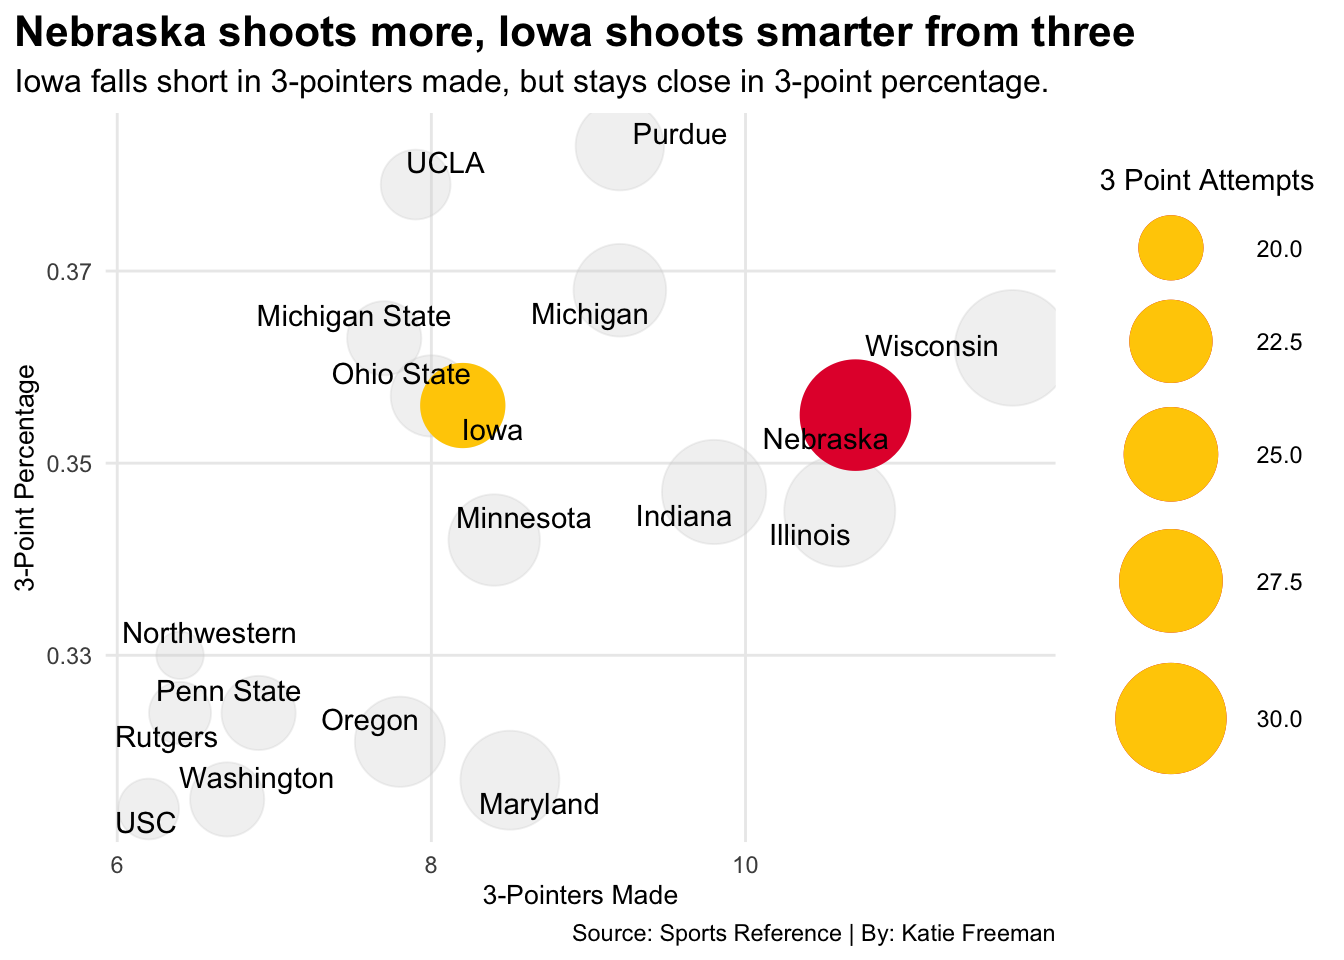
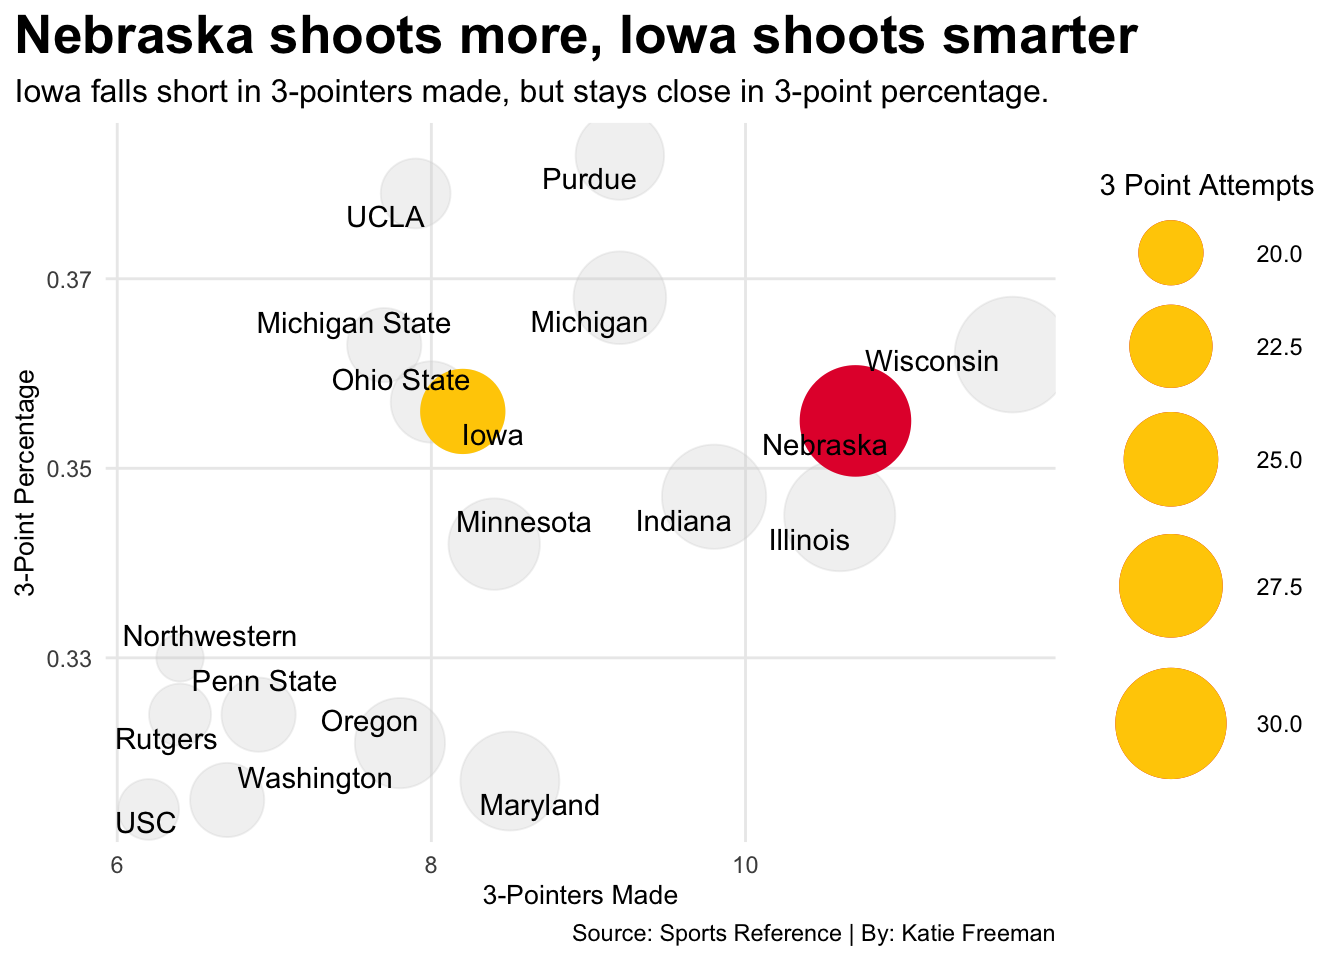
title edits

diff --git a/posts/nebraska-iowa-mens-basketball/index.html b/posts/nebraska-iowa-mens-basketball/index.html
@@ -520,13 +520,13 @@ pre > code.sourceCode > span > a:first-child::before { text-decoration: underlin
 <span id="cb5-22"><a href="#cb5-22" aria-hidden="true" tabindex="-1"></a><span class="fu">labs</span>(</span>
 <span id="cb5-23"><a href="#cb5-23" aria-hidden="true" tabindex="-1"></a>    <span class="at">x=</span><span class="st">"3-Pointers Made"</span>, </span>
 <span id="cb5-24"><a href="#cb5-24" aria-hidden="true" tabindex="-1"></a>    <span class="at">y=</span><span class="st">"3-Point Percentage"</span>, </span>
-<span id="cb5-25"><a href="#cb5-25" aria-hidden="true" tabindex="-1"></a>    <span class="at">title=</span><span class="st">"Nebraska shoots more, Iowa shoots smarter from three"</span>, </span>
+<span id="cb5-25"><a href="#cb5-25" aria-hidden="true" tabindex="-1"></a>    <span class="at">title=</span><span class="st">"Nebraska shoots more, Iowa shoots smarter"</span>, </span>
 <span id="cb5-26"><a href="#cb5-26" aria-hidden="true" tabindex="-1"></a>    <span class="at">subtitle=</span><span class="st">"Iowa falls short in 3-pointers made, but stays close in 3-point percentage."</span>, </span>
 <span id="cb5-27"><a href="#cb5-27" aria-hidden="true" tabindex="-1"></a>    <span class="at">caption=</span><span class="st">"Source: Sports Reference | By: Katie Freeman"</span></span>
 <span id="cb5-28"><a href="#cb5-28" aria-hidden="true" tabindex="-1"></a>    ) <span class="sc">+</span></span>
 <span id="cb5-29"><a href="#cb5-29" aria-hidden="true" tabindex="-1"></a>  <span class="fu">theme_minimal</span>() <span class="sc">+</span> </span>
 <span id="cb5-30"><a href="#cb5-30" aria-hidden="true" tabindex="-1"></a>  <span class="fu">theme</span>(</span>
-<span id="cb5-31"><a href="#cb5-31" aria-hidden="true" tabindex="-1"></a>    <span class="at">plot.title =</span> <span class="fu">element_text</span>(<span class="at">size =</span> <span class="dv">16</span>, <span class="at">face =</span> <span class="st">"bold"</span>),</span>
+<span id="cb5-31"><a href="#cb5-31" aria-hidden="true" tabindex="-1"></a>    <span class="at">plot.title =</span> <span class="fu">element_text</span>(<span class="at">size =</span> <span class="dv">20</span>, <span class="at">face =</span> <span class="st">"bold"</span>),</span>
 <span id="cb5-32"><a href="#cb5-32" aria-hidden="true" tabindex="-1"></a>    <span class="at">axis.title =</span> <span class="fu">element_text</span>(<span class="at">size =</span> <span class="dv">10</span>), </span>
 <span id="cb5-33"><a href="#cb5-33" aria-hidden="true" tabindex="-1"></a>    <span class="at">plot.subtitle =</span> <span class="fu">element_text</span>(<span class="at">size=</span><span class="dv">12</span>), </span>
 <span id="cb5-34"><a href="#cb5-34" aria-hidden="true" tabindex="-1"></a>    <span class="at">panel.grid.minor =</span> <span class="fu">element_blank</span>(),</span>

diff --git a/index.html b/index.html
@@ -373,7 +373,7 @@ window.Quarto = {
 
 <div class="quarto-listing quarto-listing-container-default" id="listing-listing">
 <div class="list quarto-listing-default">
-<div class="quarto-post image-right" data-index="0" data-categories="YmlndGVuJTJDYmFza2V0YmFsbCUyQ25lYnJhc2thJTJDaW93YQ==" data-listing-date-sort="1777266000000" data-listing-file-modified-sort="1777326660768" data-listing-date-modified-sort="NaN" data-listing-reading-time-sort="6" data-listing-word-count-sort="1134">
+<div class="quarto-post image-right" data-index="0" data-categories="YmlndGVuJTJDYmFza2V0YmFsbCUyQ25lYnJhc2thJTJDaW93YQ==" data-listing-date-sort="1777266000000" data-listing-file-modified-sort="1777327161608" data-listing-date-modified-sort="NaN" data-listing-reading-time-sort="6" data-listing-word-count-sort="1132">
 <div class="thumbnail"><a href="./posts/nebraska-iowa-mens-basketball/index.html" class="no-external">
 
 <img loading="lazy" src="./posts/nebraska-iowa-mens-basketball/image.png" class="thumbnail-image">
